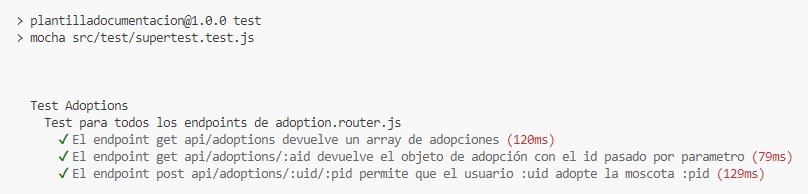
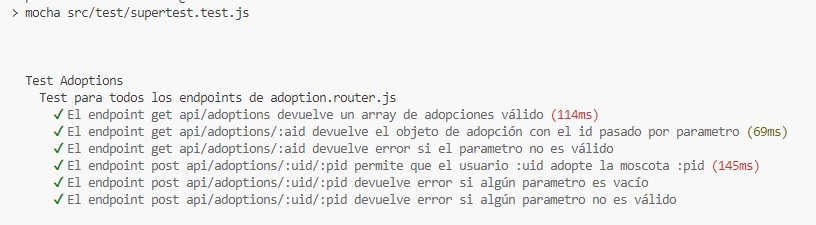
Ampliación de test funcionales para router adoption. Docker. Actualización de README.

Changed region(s): [[0.0309, 0.3402, 0.9901, 0.9278], [0.0, 0.0309, 0.3403, 0.2165]]

diff --git a/src/test/supertest.test.js b/src/test/supertest.test.js
@@ -8,7 +8,7 @@ const requester = supertest("http://localhost:8080")
 
 describe("Test Adoptions", () => {
     describe("Test para todos los endpoints de adoption.router.js",()=>{
-        it("El endpoint get api/adoptions devuelve un array de adopciones", async()=>{
+        it("El endpoint get api/adoptions devuelve un array de adopciones válido", async()=>{
             const {
                 statusCode,
                 _body
@@ -32,6 +32,14 @@ describe("Test Adoptions", () => {
             expect(_body.payload).to.have.property('owner').that.is.a('string');
             expect(_body.payload).to.have.property('pet').that.is.a('string');
         }),
+        it("El endpoint get api/adoptions/:aid devuelve error si el parametro no es válido", async()=>{
+            const aid = null;
+            const {
+                statusCode,
+                _body
+            } = await requester.get("/api/adoptions/"+aid).send()
+            expect(statusCode).that.equals(404);
+        }),
         it("El endpoint post api/adoptions/:uid/:pid permite que el usuario :uid adopte la moscota :pid", async()=>{
             const uid = "673975af17169af3665ce597";
             const pid = "67396c316cfb39b5cfd7f063";
@@ -40,6 +48,25 @@ describe("Test Adoptions", () => {
                 message
             } = await requester.post("/api/adoptions/"+uid+"/"+pid).send()
             expect(statusCode).to.be.ok;
+        }),    
+        it("El endpoint post api/adoptions/:uid/:pid devuelve error si algún parametro es vacío", async()=>{
+            const uid = "";
+            const pid = "67396c316cfb39b5cfd7f063";
+            const {
+                statusCode,
+                message
+            } = await requester.post("/api/adoptions/"+uid+"/"+pid).send()
+            expect(statusCode).that.equals(404);
+        })
+             
+        it("El endpoint post api/adoptions/:uid/:pid devuelve error si algún parametro no es válido", async()=>{
+            const uid = "lala";
+            const pid = "67396c316cfb39b5cfd7f063";
+            const {
+                statusCode,
+                message
+            } = await requester.post("/api/adoptions/"+uid+"/"+pid).send()
+            expect(statusCode).that.equals(404);
         })
     })
 }),

diff --git a/src/controllers/adoptions.controller.js b/src/controllers/adoptions.controller.js
@@ -7,13 +7,17 @@ const getAllAdoptions = async(req,res)=>{
 
 const getAdoption = async(req,res)=>{
     const adoptionId = req.params.aid;
+    const val = /^[0-9a-fA-F]{24}$/;
+    if(!adoptionId.match(val)) return res.status(404).send({status:"error",error:"Not valid id"});
     const adoption = await adoptionsService.getBy({_id:adoptionId})
     if(!adoption) return res.status(404).send({status:"error",error:"Adoption not found"})
     res.send({status:"success",payload:adoption})
 }
 
 const createAdoption = async(req,res)=>{
-    const {uid,pid} = req.params;
+    const {uid,pid} = req.params;console.log(uid,pid)
+    const val = /^[0-9a-fA-F]{24}$/;
+    if(!uid||!pid||!uid.match(val)||!pid.match(val)) return res.status(404).send({status:"error",error:"Not valid ids"});
     const user = await usersService.getUserById(uid);
     if(!user) return res.status(404).send({status:"error", error:"user Not found"});
     const pet = await petsService.getBy({_id:pid});

diff --git a/src/app.js b/src/app.js
@@ -40,9 +40,9 @@ const swaggerOptions = {
             }
         ],
     },
-    apis: [`${__dirname}/docs/**/*.yaml`] // Ruta de los archivos con documentación 
+    apis: [`${__dirname}/../docs/**/*.yaml`] // Ruta de los archivos con documentación 
 }
-
+console.log(`${__dirname}/../docs/**/*.yaml`)
 const swaggerDocs = swaggerJSDoc(swaggerOptions)
 app.use("/api-docs", swaggerUi.serve, swaggerUi.setup(swaggerDocs))
 

diff --git a/README.md b/README.md
@@ -2,7 +2,7 @@
 
 ### Descripción del proyecto:
 
-Se tomó como base el proyecto de un servidor basado en Node.JS y express, con persistencia en una base de datos Mongo. Se creó un módulo de Mocking con el fin de generar mascotas y usuarios. Se incorpora Faker-js. Se documentó con Swagger el módulo de “Users”. Se desarrollaron los tests funcionales para todos los endpoints del router “adoption.router.js”.
+Se tomó como base el proyecto de un servidor basado en Node.JS y express, con persistencia en una base de datos Mongo. Se creó un módulo de Mocking con el fin de generar mascotas y usuarios. Se incorpora Faker-js. Se documentó con Swagger el módulo “Users”. Se desarrollaron los tests funcionales para todos los endpoints del router “adoption.router.js”. Se generó una imagen Docker del proyecto.
 
 ### Pasos para probar el proyecto:
 
@@ -19,6 +19,10 @@ npm install
 ```
 
 - Configurar las variables de entorno en el archivo .env ubicado en la raíz del proyecto. En env.example se listan cuales se deben configurar.
+
+### Imagen Docker del proyecto
+
+https://hub.docker.com/repositories/ingridlochi/adoptme
 
 ### Endpoints de la API
 
@@ -50,3 +54,8 @@ Se incluyen capturas de pruebas realizadas en Postman que demuestran su funciona
 
 ![mongousers](./src/public/img/mongousers.jpg)
 ![mongopets](./src/public/img/mongopets.jpg)
+
+### Documentación con Swagger del módulo “Users”
+
+Se incluyen captura de la vista generada:
+![swagger](./src/public/img/swagger.jpg)
